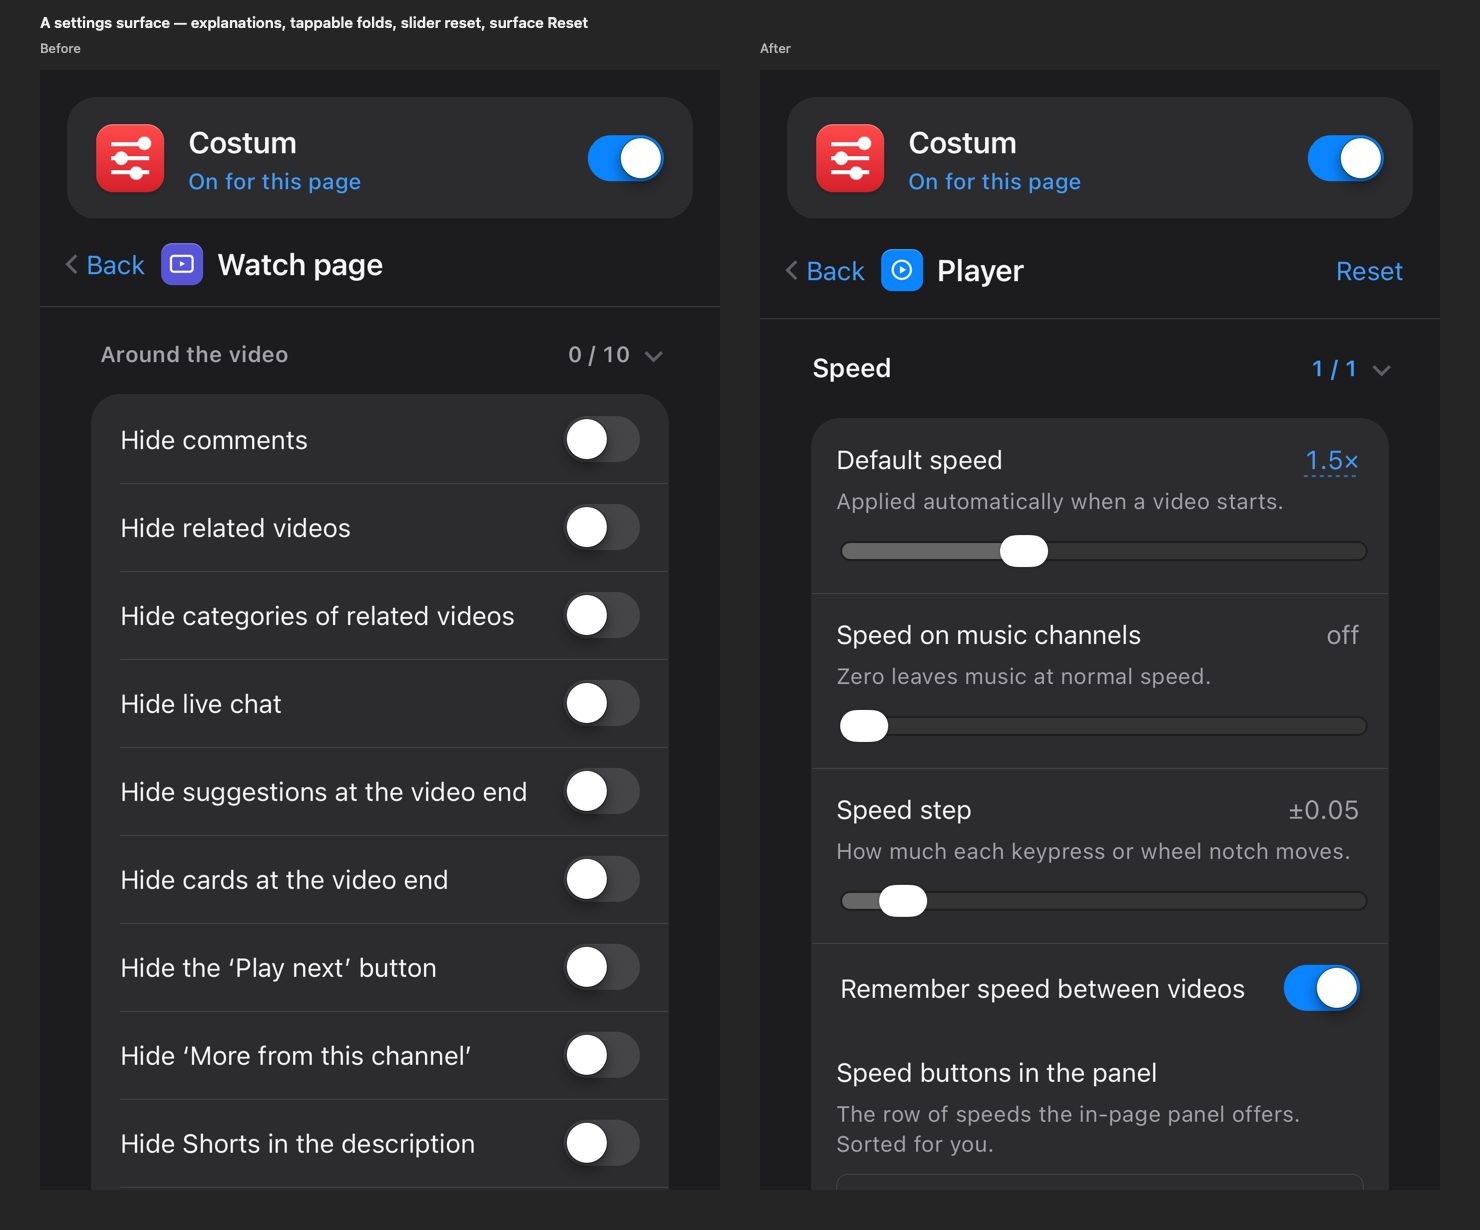
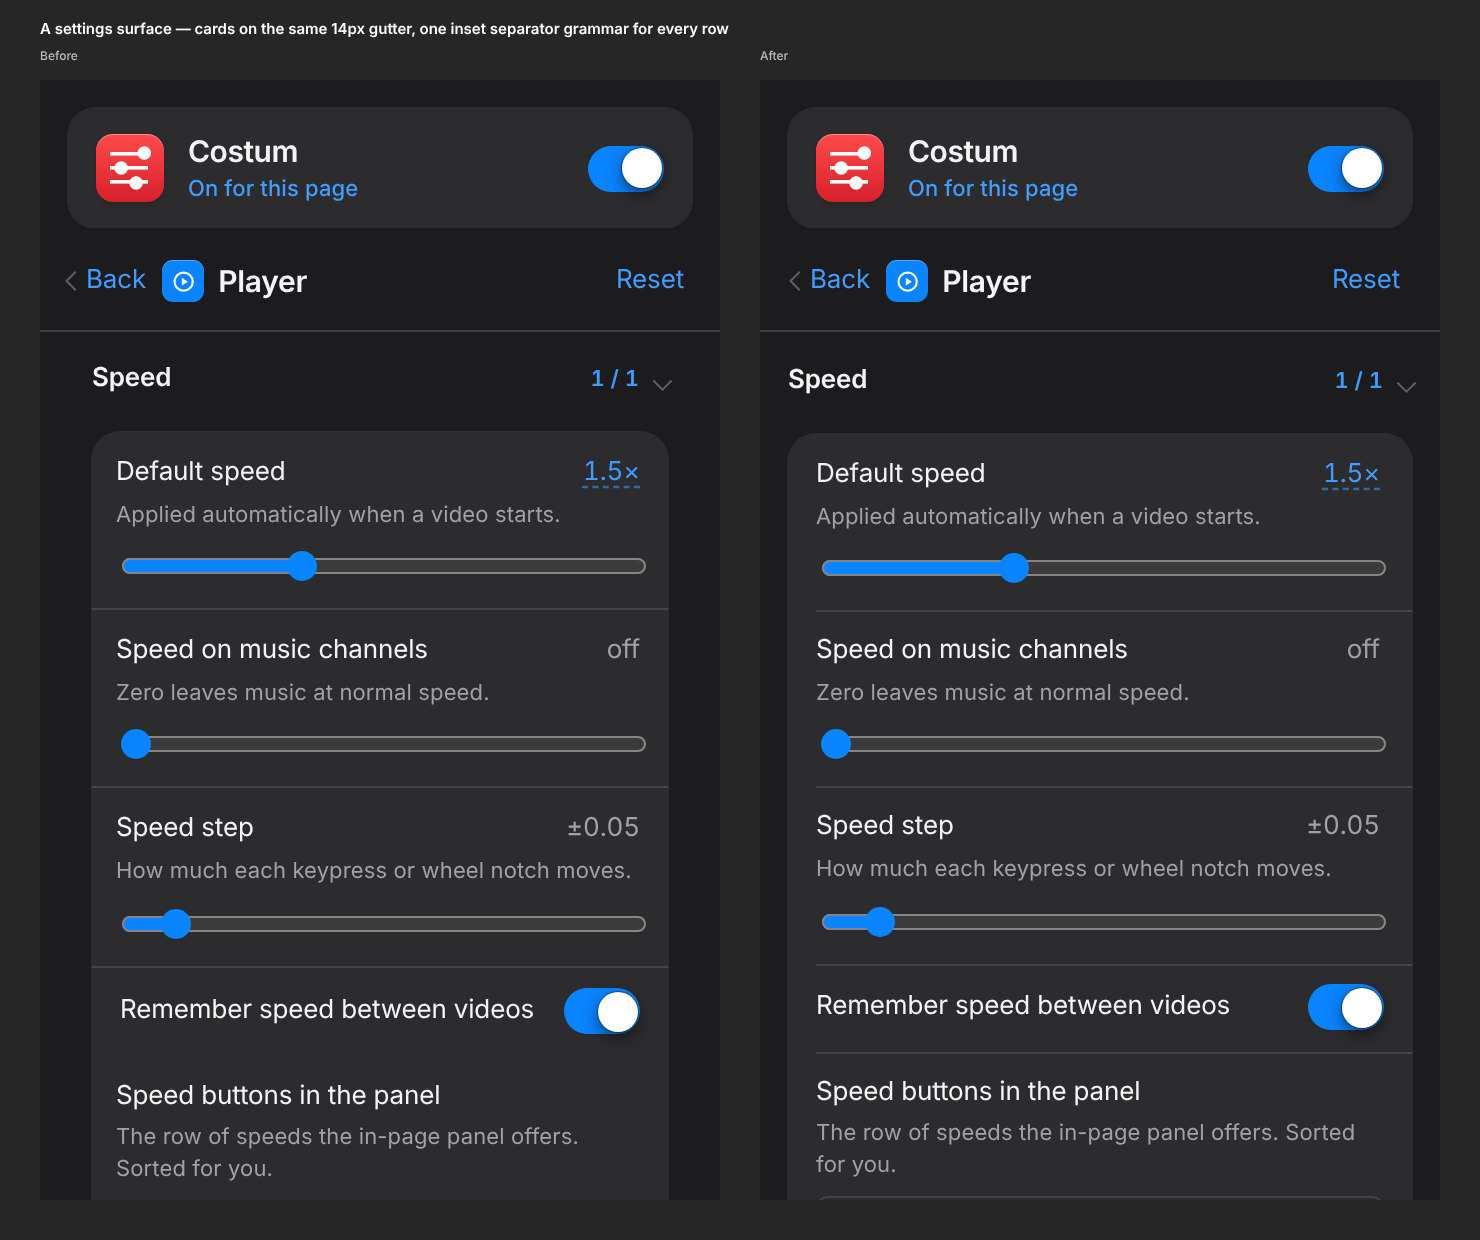
Pin Customize, align drilled surfaces, rule the scroll edge
- Customize YouTube is pinned to the Control Center's foot instead of
  sitting below four sections at the end of the scroll.
- The root scroll draws a 0.5px rule once content passes under the header.
- Drilled surfaces drop their extra 12px inline padding so cards share the
  Control Center's 14px gutter.
- Stacked rows share the list-row gutter and inset separator grammar.
- Regenerated the review screenshots; DESIGN.md updated to match.

Claude-Session: https://claude.ai/code/session_017bUs19hYVdQ2Vi6n3wEL2q

diff --git a/extension/ui/popup/popup.css b/extension/ui/popup/popup.css
@@ -104,7 +104,13 @@ body {
   -webkit-overflow-scrolling: touch;
   padding: 0 14px 14px;
   scrollbar-width: thin;
+  /* Content slid under the pinned header with nothing to say where the edge
+     was: a card cut in half beneath the hero. The rule appears only once
+     something has actually scrolled under it. */
+  border-block-start: .5px solid transparent;
+  transition: border-color var(--dur-fast) var(--ease);
 }
+.scroll[data-scrolled] { border-block-start-color: var(--separator); }
 .scroll::-webkit-scrollbar { width: 8px; }
 .scroll::-webkit-scrollbar-thumb {
   background: var(--fill-2, rgba(120,120,128,.28)); border-radius: 4px;
@@ -293,7 +299,6 @@ footer .label { margin-block-start: 8px; }
   margin-block-start: 1px; color: var(--label-2);
   font-size: var(--t-caption); letter-spacing: var(--track-caption);
 }
-#customize-entry { padding-block-end: 4px; }
 /* The Active mode row folds a picker out beneath it. The chevron turns to
    point at what it opened, the same shape rotated. */
 .settings-row.open .fold-chevron { transform: rotate(135deg); }
@@ -369,13 +374,13 @@ body { position: relative; }
 /* ---- the second level ---- */
 .drill-head {
   display: flex; align-items: center; gap: 6px;
-  padding: 10px 12px 8px;
+  padding: 10px 14px 8px;
   position: sticky; top: 0; z-index: 2;
   background: var(--bg); border-bottom: .5px solid var(--separator);
 }
 .drill-head b { flex: 1 1 auto; min-width: 0; }
 #drill-reset { flex: 0 0 auto; min-height: 32px; }
-#drill-reset-confirm { margin: 8px 12px 0; }
+#drill-reset-confirm { margin: 8px 0 0; }
 /* Customize's own header, the same shape as a surface's: the way back on the
    leading edge, the name of where you are beside it. */
 .workspace-nav {
@@ -413,7 +418,10 @@ button.back {
 body[dir="rtl"] .back-chevron { transform: rotate(45deg); }
 button.back:focus-visible { outline: 2px solid var(--accent); outline-offset: 2px; border-radius: 6px; }
 
-#drill-body { padding: 4px 12px 8px; display: flex; flex-direction: column; gap: 14px; }
+/* No inline padding of its own: the scroll around it already has the 14px
+   gutter, and adding 12 more made every drilled card 24px narrower than the
+   Control Center's. */
+#drill-body { padding: 4px 0 8px; display: flex; flex-direction: column; gap: 14px; }
 
 /* A folded group is a row you read; an open one is a card you work in. The
    fold is set at body size in the label colour, with a hover, because at
@@ -458,10 +466,18 @@ body[dir="rtl"] #drill-body .chev { transform: rotate(135deg); }
    it — at this width a six-way segmented control has nowhere else to go. */
 .stack-row {
   display: flex; flex-direction: column; gap: 8px;
-  padding: 11px 12px;
-  border-block-end: .5px solid var(--separator);
+  padding: 11px 14px;
+  position: relative;
 }
-.stack-row:last-child { border-block-end: 0; }
+/* One separator grammar for both row shapes, inset to the label column. A
+   stacked row used to draw its own full-width bottom border, so a switch row
+   between two of them had a rule above it and none below, and the two kinds
+   of row began 2px apart. */
+:is(.list-row, .stack-row) + .stack-row::before,
+.stack-row + .list-row::before {
+  content: ""; position: absolute; inset-block-start: 0;
+  inset-inline: 14px 0; height: .5px; background: var(--separator);
+}
 .stack-row .row-head { display: flex; align-items: baseline; justify-content: space-between; gap: 12px; }
 .stack-row input[type="range"] { width: 100%; accent-color: var(--accent); }
 

diff --git a/extension/ui/popup/popup.html b/extension/ui/popup/popup.html
@@ -89,15 +89,6 @@
       </details>
     </section>
 
-    <section id="customize-entry">
-      <button type="button" class="settings-row" id="open-customize">
-        <span class="row-label">
-          <span id="open-customize-label">Customize YouTube</span>
-          <small id="open-customize-note">All settings, modes and data</small>
-        </span>
-        <span class="chevron" aria-hidden="true"></span>
-      </button>
-    </section>
   </main>
 
   <!-- This stays inside the popover so every setting remains available, but it
@@ -221,6 +212,19 @@
   </div>
 
   </div>
+
+  <!-- Pinned, not the last row of the scroll. Below four sections on a 560px
+       pane it was the one route to 238 settings and nobody saw it without
+       scrolling to the end. Shown on the Control Center only. -->
+  <footer class="pinned" id="customize-entry">
+    <button type="button" class="settings-row" id="open-customize">
+      <span class="row-label">
+        <span id="open-customize-label">Customize YouTube</span>
+        <small id="open-customize-note">All settings, modes and data</small>
+      </span>
+      <span class="chevron" aria-hidden="true"></span>
+    </button>
+  </footer>
 
   <!-- The gate. The setting says the password is "asked for before this page
        opens", and for a while nothing asked: the screen that did lived in the

diff --git a/extension/ui/popup/popup.js b/extension/ui/popup/popup.js
@@ -1378,6 +1378,7 @@
     document.getElementById('search-bar').hidden = !inCustomize;
     document.getElementById('page-section').hidden = !inControl;
     document.getElementById('root-footer').hidden = !inCustomize;
+    document.getElementById('customize-entry').hidden = !inControl;
     if (inDrill) { renderDrill(); return; }
     const currentPageRows = pageRows();
     document.getElementById('page-empty').hidden = pathname !== null;
@@ -1694,6 +1695,12 @@
   });
 
   document.getElementById('open-customize').addEventListener('click', openCustomize);
+  // The hairline under the pinned header, drawn only while something is under it.
+  // The drilled surface has its own ruled head, so only the root scroll needs it.
+  const rootScroll = document.getElementById('scroll');
+  rootScroll.addEventListener('scroll', () => {
+    rootScroll.toggleAttribute('data-scrolled', rootScroll.scrollTop > 0);
+  }, { passive: true });
   document.getElementById('active-profile').addEventListener('click', () => {
     modeOpen = !modeOpen;
     render();

diff --git a/DESIGN.md b/DESIGN.md
@@ -272,11 +272,11 @@ Apple's system palette as published, with three accent variants so the same blue
 
 ## Layout
 
-The popup is a fixed pane: 340px wide, 560px tall, `overflow: hidden`, one scrolling region between a pinned header and a pinned footer. Hero card and search field sit above the scroll; the footer button below it, separated by a 0.5px rule. On a phone (coarse pointer, device width ≤480px) the pane becomes 100% x 100dvh; on an iPad (coarse pointer, wider device) it is a 400x600 popover, 600 being Safari's popover height cap. Both key on `device-width`, never the viewport: a popover's viewport is the popover, so a viewport rule is circular and collapsed the iPad popover to 130px. The in-page panel is a 320px sheet, `max-height: min(76vh, 620px)`, anchored to a configurable corner; at ≤430px it becomes a bottom sheet (`inset-inline: 0; bottom: 0; max-height: 82vh`, 14px top corners, a 36x5px grabber, safe-area padding).
+The popup is a fixed pane: 340px wide, 560px tall, `overflow: hidden`, one scrolling region between a pinned header and a pinned footer. Hero card and search field sit above the scroll; on the Control Center the Customize YouTube row is pinned below it, separated by a 0.5px rule, so the route to every setting never needs a scroll. Once content has scrolled under the header the scroll region's top edge draws the same 0.5px rule. On a phone (coarse pointer, device width ≤480px) the pane becomes 100% x 100dvh; on an iPad (coarse pointer, wider device) it is a 400x600 popover, 600 being Safari's popover height cap. Both key on `device-width`, never the viewport: a popover's viewport is the popover, so a viewport rule is circular and collapsed the iPad popover to 130px. The in-page panel is a 320px sheet, `max-height: min(76vh, 620px)`, anchored to a configurable corner; at ≤430px it becomes a bottom sheet (`inset-inline: 0; bottom: 0; max-height: 82vh`, 14px top corners, a 36x5px grabber, safe-area padding).
 
 The horizontal rhythm is a single gutter: 14px pane inset in the popup, 16px in the panel, 14px row padding inside a card (12px in the panel), and separators that start 14px in so they align with the label column. Vertical rhythm is 8px between a heading and its card, 8px between stacked cards, 18px between sections (14px between drill groups), 6px inside a folded group.
 
-Rows are 44px minimum (42px in the panel, 48px for settings rows), 12px gap between label and control. A label and a segmented control share a line if they fit and the control wraps to its own full-width line if not; flexbox measures, no option-count threshold. Long-form controls (sliders, text, code) stack under their label in a `.stack-row` because at 340px nothing fits beside a label.
+Rows are 44px minimum (42px in the panel, 48px for settings rows), 12px gap between label and control. A label and a segmented control share a line if they fit and the control wraps to its own full-width line if not; flexbox measures, no option-count threshold. Long-form controls (sliders, text, code) stack under their label in a `.stack-row` because at 340px nothing fits beside a label. A `.stack-row` shares the `.list-row` gutter (14px) and its separator grammar (a 0.5px rule inset 14px, drawn by the following row), so mixed cards line up down one label column. A drilled surface adds no inline padding of its own: its cards sit on the same 14px gutter as the Control Center's.
 
 Touch: under `pointer: coarse` every control gets a 44px minimum height (48px rows), including the back button, the segment buttons, the search field and the slider readout button. The panel's close button grows from 26px to 36px, and its chips and segments reach 44px, on any coarse pointer, not only at phone width, so the iPad's floating sheet is finger-sized too.
 
